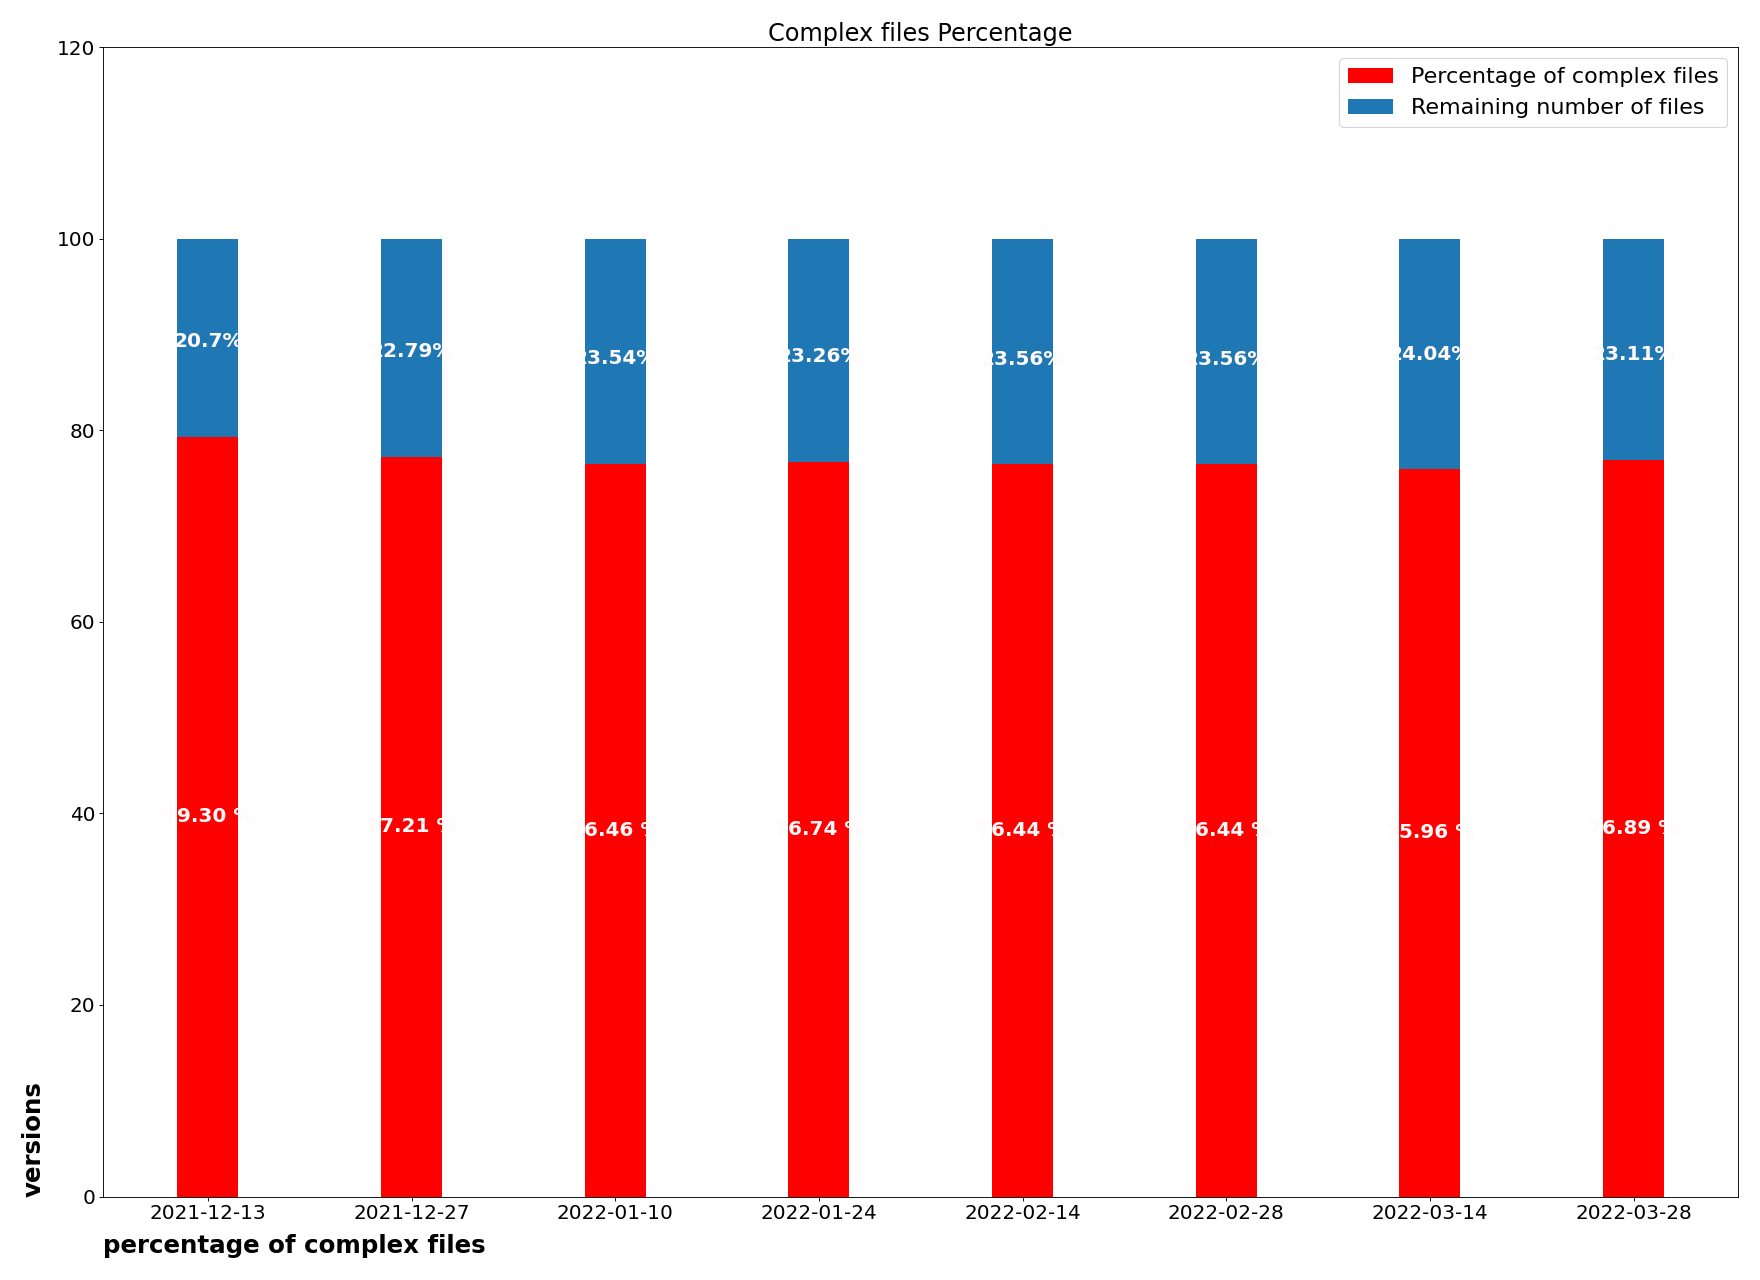
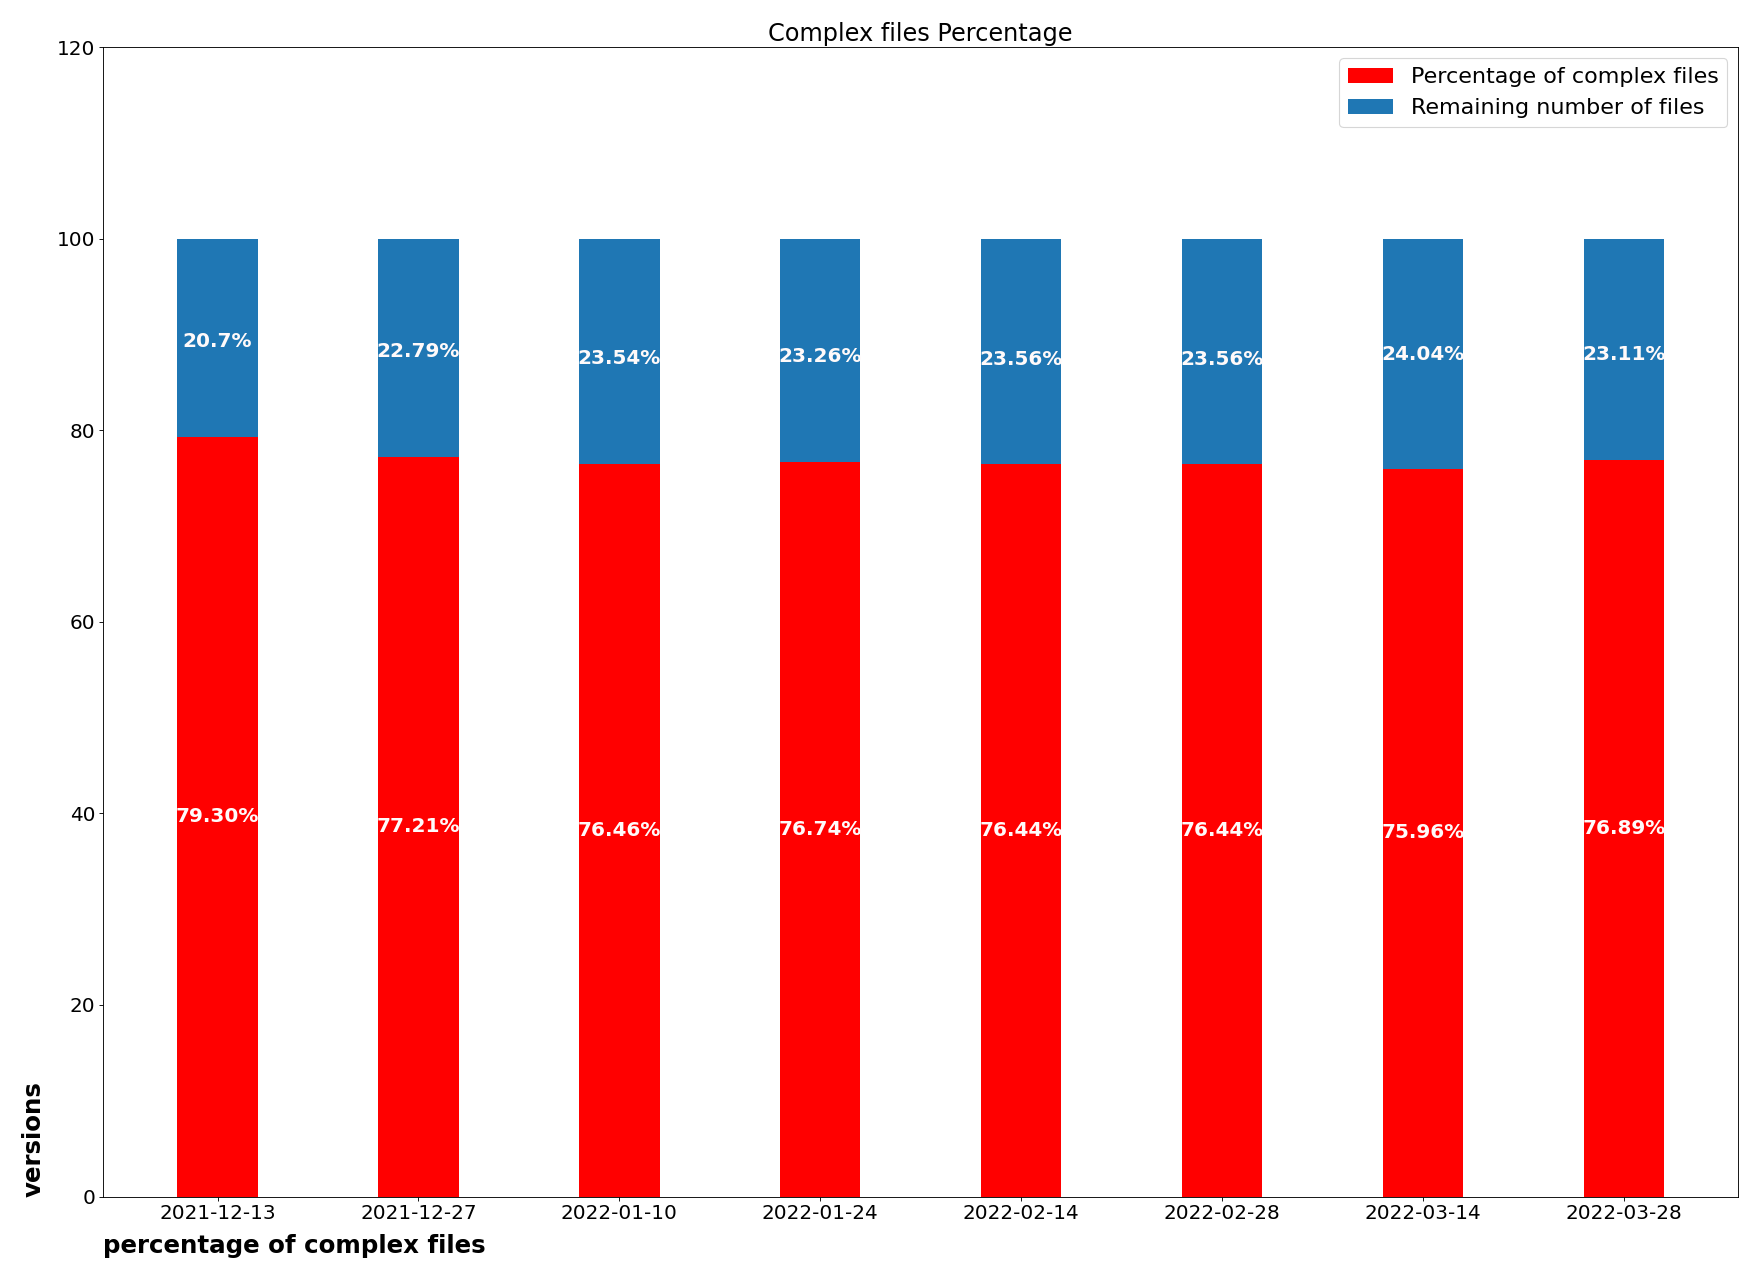
Changed percentage graphs

diff --git a/time-analysis.py b/time-analysis.py
@@ -72,11 +72,11 @@ def plot_complex_percentage(versions,complex,total,img_path):
     figure(figsize=(22,16), dpi=80)
     ratios = np.divide(complex,total)
     ratios= np.multiply(ratios,100.0)
-    plt.bar(versions, np.full(len(versions),100), 0.3, label="Remaining number of files")
-    bar=plt.bar(versions, ratios, 0.3,color="r", label="Percentage of complex files")
+    plt.bar(versions, np.full(len(versions),100), 0.4, label="Remaining number of files")
+    bar=plt.bar(versions, ratios, 0.4,color="r", label="Percentage of complex files")
     for i in range(0,len(versions)):
         plt.text(i,ratios[i]+((100.0-ratios[i])//2),str(round(100.0-ratios[i],2))+"%", color='snow',va='center', ha='center',fontweight='bold')
-    plt.bar_label(bar,label_type='center',color="snow",fmt="%.2f %%",fontweight='bold')
+    plt.bar_label(bar,label_type='center',color="snow",fmt="%.2f%%",fontweight='bold')
     yt=plt.yticks()[0].tolist()
     step = yt[1]-yt[0]
     #yt.append(max(yt)+step)
